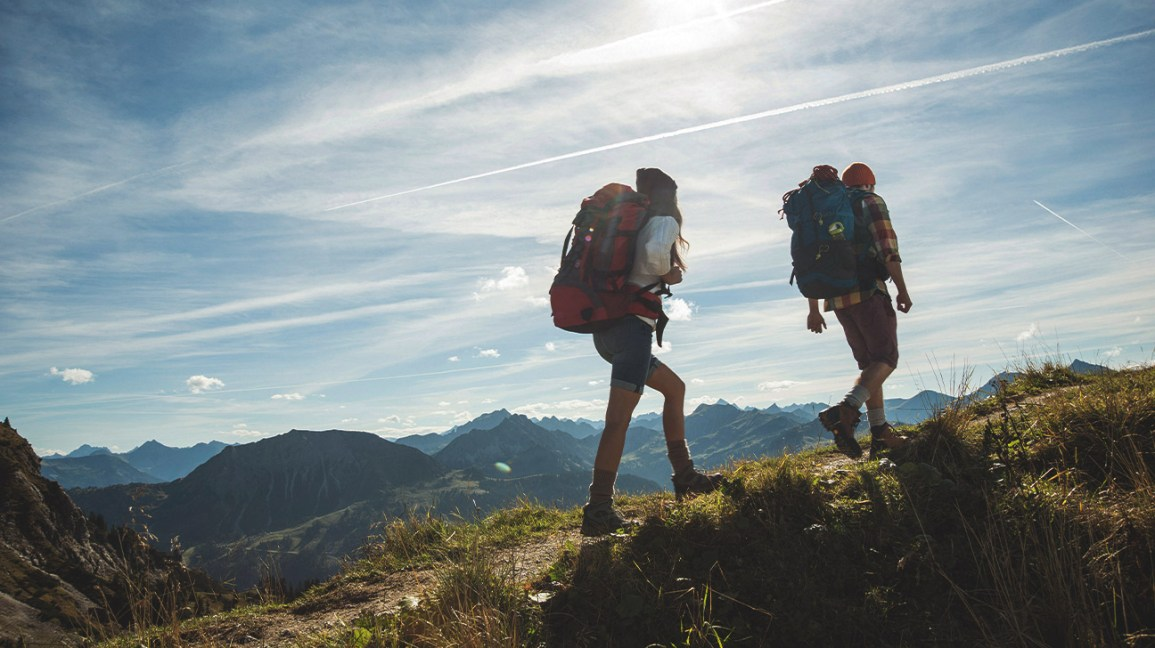
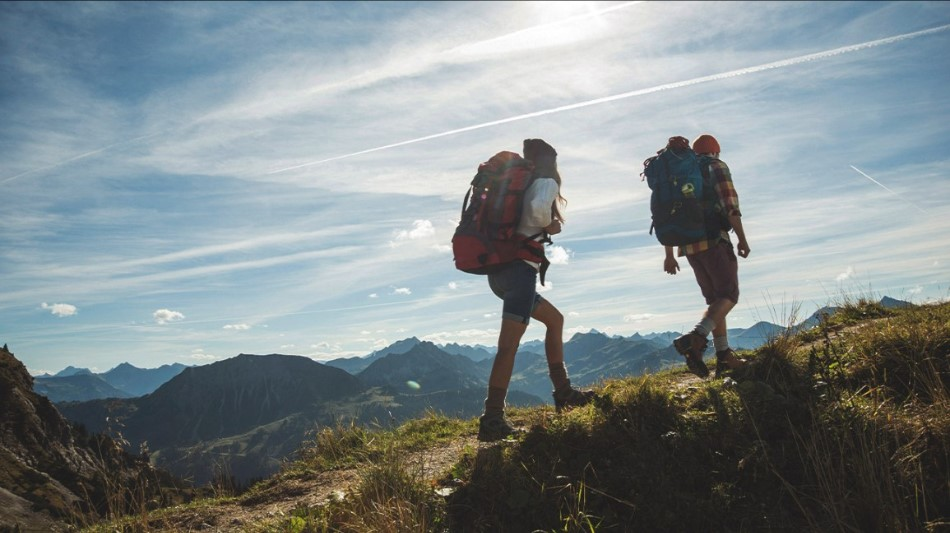
Card Grid, Resize of carousel imgs, placeholder review box added, and CSS edits

diff --git a/index.html b/index.html
@@ -11,6 +11,7 @@
 
     <!-- Additional CSS must be placed after Bootstrap CSS -->
     <link rel="stylesheet" href="https://fonts.googleapis.com/css?family=Lobster|Open+Sans" />
+    <link rel="stylesheet" href="node_modules/bootstrap-social/bootstrap-social.css" />
     <link rel="stylesheet" href="css/styles.css" />
 
     <!-- Additional CSS must be placed after Bootstrap CSS -->
@@ -35,92 +36,188 @@
             <li class="nav-item"><a class="nav-link" href="#">Contact</a></li>
         </ul>
     </nav>
-    <div class="container">
-        <div class="row row-content">
-            <div class="col"></div>
-            <div class="col-2 card-mareo">
-                <img src="images/fricolandia.jpg" class="card-img-top" alt="...">
-            </div>
-            <div class="col-2 card-mareo">
-                <img src="images/saona-Island.jpg" class="card-img-top" alt="...">
-            </div>
-            <div class="col-2 card-mareo">
-                <img src="images/cayo-levantado.jpg" class="card-img-top" alt="...">
-            </div>
-            <div class="col-2 card-mareo">
-                <img src="images/playa-Rincon.jpg" class="card-img-top" alt="...">
-            </div>
-            <div class="col-2 card-mareo">
-                <img src="images/montana-redonda.jpg" class="card-img-top" alt="...">
-            </div>
-            <div class="col"></div>
-        </div>
-    </div>
 
     <div class="container">
+        <div class="card-deck">
+            <div class="card mb-4">
+                <img class="card-img-top img-fluid" src="images/fricolandia-puertoplata-card500.jpg" alt="...">
+                <div class="card-body">
+                    <h4 class="card-title">Fricolandia - Puerto Plata</h4>
+                    <p class="card-text">This is a longer card with supporting text below as a natural lead-in to additional content. This content is a little bit longer.</p>
+                    <p class="card-text"><small class="text-muted">Last updated 3 mins ago</small></p>
+                </div>
+            </div>
+            <div class="card mb-4">
+                <img class="card-img-top img-fluid" src="images/Isla Saona-La Altagracia-card500.jpg" alt="...">
+                <div class="card-body">
+                    <h4 class="card-title">Isla Saona - La Altagracia</h4>
+                    <p class="card-text">This is a longer card with supporting text below as a natural lead-in to additional content. This content is a little bit longer.</p>
+                    <p class="card-text"><small class="text-muted">Last updated 3 mins ago</small></p>
+                </div>
+            </div>
+            <div class="w-100 d-none d-sm-block d-md-none"><!-- wrap every 2 on sm--></div>
+            <div class="card mb-4">
+                <img class="card-img-top img-fluid" src="images/cayo-levantado-card500.jpg" alt="...">
+                <div class="card-body">
+                    <h4 class="card-title">Cayo Arena - Montecristi</h4>
+                    <p class="card-text">This is a longer card with supporting text below as a natural lead-in to additional content. This content is a little bit longer.</p>
+                    <p class="card-text"><small class="text-muted">Last updated 3 mins ago</small></p>
+                </div>
+            </div>
+            <div class="w-100 d-none d-md-block d-lg-none"><!-- wrap every 3 on md--></div>
+            <div class="card mb-4">
+                <img class="card-img-top img-fluid" src="images/Playa Rincon-card500.jpg" alt="...">
+                <div class="card-body">
+                    <h4 class="card-title">Playa Rincon - Las Galeras, Samana</h4>
+                    <p class="card-text">This is a longer card with supporting text below as a natural lead-in to additional content. This content is a little bit longer.</p>
+                    <p class="card-text"><small class="text-muted">Last updated 3 mins ago</small></p>
+                </div>
+            </div>
+            <div class="w-100 d-none d-sm-block d-md-none"><!-- wrap every 2 on sm--></div>
+            <div class="w-100 d-none d-lg-block d-xl-none"><!-- wrap every 4 on lg--></div>
+            <div class="card mb-4">
+                <img class="card-img-top img-fluid" src="images/Montana Redonda-card500.jpg" alt="...">
+                <div class="card-body">
+                    <h4 class="card-title">Montana Redonda - Miches, El Seibo</h4>
+                    <p class="card-text">This is a longer card with supporting text below as a natural lead-in to additional content. This content is a little bit longer.</p>
+                    <p class="card-text"><small class="text-muted">Last updated 3 mins ago</small></p>
+                </div>
+            </div>
+        
+        </div>
         <div class="row row-content">
             <div class="col-6">
                 <h2>Reviews</h2>
-                <p>Lorem ipsum dolor sit amet, consectetur adipiscing elit</p>
+                <span class="heading">User Rating</span>
+                <span class="fa fa-star checked"></span>
+                <span class="fa fa-star checked"></span>
+                <span class="fa fa-star checked"></span>
+                <span class="fa fa-star checked"></span>
+                <span class="fa fa-star"></span>
+                <p>4.1 average based on 254 reviews.</p>
+                <hr style="border:3px solid #f1f1f1">
+                
+                <div class="row">
+                  <div class="side">
+                    <div>5 star</div>
+                  </div>
+                  <div class="middle">
+                    <div class="bar-container">
+                      <div class="bar-5"></div>
+                    </div>
+                  </div>
+                  <div class="side right">
+                    <div>150</div>
+                  </div>
+                  <div class="side">
+                    <div>4 star</div>
+                  </div>
+                  <div class="middle">
+                    <div class="bar-container">
+                      <div class="bar-4"></div>
+                    </div>
+                  </div>
+                  <div class="side right">
+                    <div>63</div>
+                  </div>
+                  <div class="side">
+                    <div>3 star</div>
+                  </div>
+                  <div class="middle">
+                    <div class="bar-container">
+                      <div class="bar-3"></div>
+                    </div>
+                  </div>
+                  <div class="side right">
+                    <div>15</div>
+                  </div>
+                  <div class="side">
+                    <div>2 star</div>
+                  </div>
+                  <div class="middle">
+                    <div class="bar-container">
+                      <div class="bar-2"></div>
+                    </div>
+                  </div>
+                  <div class="side right">
+                    <div>6</div>
+                  </div>
+                  <div class="side">
+                    <div>1 star</div>
+                  </div>
+                  <div class="middle">
+                    <div class="bar-container">
+                      <div class="bar-1"></div>
+                    </div>
+                  </div>
+                  <div class="side right">
+                    <div>20</div>
+                  </div>
+                </div>
             </div>
             <div class="col-6">
                 <h2>Activities</h2>
                 <div id="carouselMareo" class="carousel slide" data-ride="carousel">
                     <ol class="carousel-indicators">
-                      <li data-target="#carouselMareo" data-slide-to="0" class="active"></li>
-                      <li data-target="#carouselMareo" data-slide-to="1"></li>
-                      <li data-target="#carouselMareo" data-slide-to="2"></li>
-                      <li data-target="#carouselMareo" data-slide-to="3"></li>
-                      <li data-target="#carouselMareo" data-slide-to="4"></li>
+                        <li data-target="#carouselMareo" data-slide-to="0" class="active"></li>
+                        <li data-target="#carouselMareo" data-slide-to="1"></li>
+                        <li data-target="#carouselMareo" data-slide-to="2"></li>
+                        <li data-target="#carouselMareo" data-slide-to="3"></li>
+                        <li data-target="#carouselMareo" data-slide-to="4"></li>
                     </ol>
                     <div class="carousel-inner">
-                      <div class="carousel-item active">
-                        <img src="images/atv.jpg" class="d-block w-100" alt="...">
-                      </div>
-                      <div class="carousel-item">
-                        <img src="images/snorkeling.jpg" class="d-block w-100" alt="...">
-                      </div>
-                      <div class="carousel-item">
-                        <img src="images/hiking.jpg" class="d-block w-100" alt="...">
-                      </div>
-                      <div class="carousel-item">
-                        <img src="images/dance.jpg" class="d-block w-100" alt="...">
-                      </div>
-                      <div class="carousel-item">
-                        <img src="images/fishing.jpg" class="d-block w-100" alt="...">
-                      </div>
+                        <div class="carousel-item active">
+                            <img src="images/atv.jpg" class="d-block w-100" alt="...">
+                            </div>
+                        <div class="carousel-item">
+                            <img src="images/snorkeling.jpg" class="d-block w-100" alt="...">
+                        </div>
+                        <div class="carousel-item">
+                            <img src="images/hiking.jpg" class="d-block w-100" alt="...">
+                        </div>
+                        <div class="carousel-item">
+                            <img src="images/dance.jpg" class="d-block w-100" alt="...">
+                        </div>
+                        <div class="carousel-item">
+                            <img src="images/fishing.jpg" class="d-block w-100" alt="...">
+                        </div>
                     </div>
                     <a class="carousel-control-prev" href="#carouselMareo" role="button" data-slide="prev">
-                      <span class="carousel-control-prev-icon" aria-hidden="true"></span>
-                      <span class="sr-only">Previous</span>
+                        <span class="carousel-control-prev-icon" aria-hidden="true"></span>
+                        <span class="sr-only">Previous</span>
                     </a>
                     <a class="carousel-control-next" href="#carouselMareo" role="button" data-slide="next">
-                      <span class="carousel-control-next-icon" aria-hidden="true"></span>
-                      <span class="sr-only">Next</span>
+                        <span class="carousel-control-next-icon" aria-hidden="true"></span>
+                        <span class="sr-only">Next</span>
                     </a>
-                  </div>
+                </div>
             </div>
         </div>
     </div>
-<footer>
-    <div>
-        <h5>Links</h5>
-        <ul>
-            <li><a href="#">Home</a></li>
-            <li><a href="#">Destinations</a></li>
-            <li><a href="#">Book Now</a></li>
-            <li><a href="#">Contact</a></li>
-        </ul>
-    </div>
-    <div>
-        <h5>Social</h5>
-        <a href="http://instagram.com/">Instagram</a>
-        <a href="http://facebook.com/">Facebook</a>
-        <a href="http://youtube.com/">YouTube</a>
-    </div>
-    <div>
-        Tel: 1-809-555-1234<br />
-        Email: mareo@mareotours.com
+<footer class="site-footer">
+    <div class="container">
+        <div class="row">
+            <div class="col-4 col-sm-2 offset-1">
+                <h5>Links</h5>
+                <ul class="list-unstyled">
+                    <li><a href="#">Home</a></li>
+                    <li><a href="#">Destinations</a></li>
+                    <li><a href="#">Book Now</a></li>
+                    <li><a href="#">Contact</a></li>
+                </ul>
+            </div>
+            <div class="col-6 col-sm-5 text-center">
+                <h5>Social</h5>
+                <a class="btn btn-social-icon btn-instagram" href="http://instagram.com/"><i class="fa fa-instagram"></i></a>
+                    <a class="btn btn-social-icon btn-facebook" href="http://facebook.com/"><i class="fa fa-facebook"></i></a>
+                    <a class="btn btn-social-icon btn-twitter" href="http://twitter.com/"><i class="fa fa-twitter"></i></a>
+                    <a class="btn btn-social-icon btn-google" href="http://youtube.com/"><i class="fa fa-youtube"></i></a>
+            </div>
+            <div class="col-sm-4 text-center">
+                <a role="button" class="btn btn-link" href="tel:+18095551234"><i class="fa fa-phone"></i> 1-809-555-1234</a><br>
+                    <a role="button" class="btn btn-link" href="mailto:info@mareotour.com"><i class="fa fa-envelope-o"></i> info@mareotour.com</a>
+            </div>
+        </div>
     </div>
     </footer>
 

diff --git a/css/styles.css b/css/styles.css
@@ -1,3 +1,8 @@
+body {
+    background-image: radial-gradient(white,rgba(177, 177, 139, 0.712),yellow);
+    font-family: cursive;
+}
+
 .jumbotron {
     font-family: cursive;
     text-align: center;
@@ -6,31 +11,84 @@
 
 .row-content {
     padding: 50px 0;
-    border-bottom: 1px ridge;
     min-height: 200px;
 }
 
-.img-desk {
-    max-width: 100%;
+.row-footer {
+    background-color: rgba(0,0,0,0.5);
+    padding: 20px 0;
 }
 
-.container-desk {
-    margin: 0;
-    padding: 0;
-    border: 0;
-}
 
-.row-desk {
-    margin: 0;
-    padding: 0;
-    border: 0;
-}
-
-.col-desk {
-    margin: 0;
-    padding: 0;
-    border: 0;
-}
-.card-mareo {
-    padding: 0;
-}
+* {
+    box-sizing: border-box;
+  }
+  
+  body {
+    font-family: Arial;
+    margin: 0 auto; /* Center website */ 
+  }
+  
+  .heading {
+    font-size: 25px;
+    margin-right: 25px;
+  }
+  
+  .fa {
+    font-size: 25px;
+  }
+  
+  .checked {
+    color: orange;
+  }
+  
+  /* Three column layout */
+  .side {
+    float: left;
+    width: 15%;
+    margin-top: 10px;
+  }
+  
+  .middle {
+    float: left;
+    width: 70%;
+    margin-top: 10px;
+  }
+  
+  /* Place text to the right */
+  .right {
+    text-align: right;
+  }
+  
+  /* Clear floats after the columns */
+  .row:after {
+    content: "";
+    display: table;
+    clear: both;
+  }
+  
+  /* The bar container */
+  .bar-container {
+    width: 100%;
+    background-color: #f1f1f1;
+    text-align: center;
+    color: white;
+  }
+  
+  /* Individual bars */
+  .bar-5 {width: 60%; height: 18px; background-color: #4CAF50;}
+  .bar-4 {width: 30%; height: 18px; background-color: #2196F3;}
+  .bar-3 {width: 10%; height: 18px; background-color: #00bcd4;}
+  .bar-2 {width: 4%; height: 18px; background-color: #ff9800;}
+  .bar-1 {width: 15%; height: 18px; background-color: #f44336;}
+  
+  /* Responsive layout - make the columns stack on top of each other instead of next to each other */
+  @media (max-width: 400px) {
+    .side, .middle {
+      width: 100%;
+    }
+    /* Hide the right column on small screens */
+    .right {
+      display: none;
+    }
+  }
